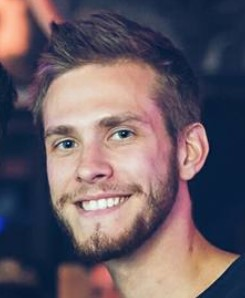
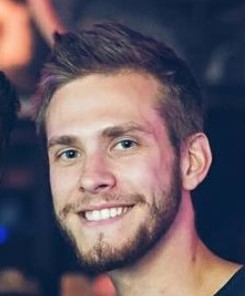
modified layout

diff --git a/index.html b/index.html
@@ -143,7 +143,7 @@
                     <!---------------------------------------- CAROUSEL ---------------------------------------->
 
                     <div class="row">
-                        <div class="col-md-8 m-auto">
+                        <div class="col-md-6 m-auto">
                             <div id="myCarousel" class="carousel slide" data-ride="carousel">
                                 <ol class="carousel-indicators">
                                     <li data-target="#myCarousel" data-slide-to="0" class="active"></li>
@@ -155,29 +155,34 @@
                                     <div class="item carousel-item active">
                                         <div class="img-box">
                                             <img src="static/customers/customer-1.jpg" alt="image">
-                                            <p class="testimonial">
-                                                Max pays great attention to details, very focused and fun to work with. <br>
-                                                He made me a set of professional photos for Linkedin, as well as for Tinder. <br>
-                                                Definitely choosing him as my wedding photographer!
-                                            </p>
-                                            <p class="customer"><strong>Anatoly Makeyev</strong></p>
                                         </div>
+                                        <p class="testimonial">
+                                            Max pays great attention to details, very focused and fun to work with.
+                                            He made me a set of professional photos for Linkedin, as well as for Tinder
+                                        </p>
+                                        <p class="customer"><strong>Anatoly Makeyev</strong></p>
                                     </div>
                                 <!--------------------------------------------------------------------------------------------->
                                     <div class="item carousel-item">
                                         <div class="img-box">
                                             <img src="static/images/img-4.jpg" alt="image">
-                                            <p class="testimonial">Lorem ipsum dolor sit amet.Lorem ipsum dolor sit amet.</p>
-                                            <p class="customer"><strong>Estebon Villalon</strong></p>
                                         </div>
+                                        <p class="testimonial">
+                                            Lorem ipsum dolor sit amet.Lorem ipsum dolor sit amet.
+                                            Lorem ipsum dolor sit amet.Lorem ipsum dolor sit amet.
+                                        </p>
+                                        <p class="customer"><strong>Estebon Villalon</strong></p>
                                     </div>
                                 <!--------------------------------------------------------------------------------------------->
                                     <div class="item carousel-item">
                                         <div class="img-box">
                                             <img src="static/images/img-4.jpg" alt="image">
-                                            <p class="testimonial">Lorem ipsum dolor sit amet.Lorem ipsum dolor sit amet.</p>
-                                            <p class="customer"><strong>Estebon Villalon</strong></p>
                                         </div>
+                                        <p class="testimonial">
+                                            Lorem ipsum dolor sit amet.Lorem ipsum dolor sit amet.
+                                            Lorem ipsum dolor sit amet.Lorem ipsum dolor sit amet. 
+                                        </p>
+                                        <p class="customer"><strong>Estebon Villalon</strong></p>
                                     </div>
                                 <!--------------------------------------------------------------------------------------------->
 
@@ -210,18 +215,28 @@
                             <small class="d-block mt-2 text-muted">&COPY; 2020</small>
                         </div>
 
-                        <div class="col-12 col-md-5 col-lg-4 mb-5 mb-md-0">
+                        <div class="col-12 col-md-3 col-lg-3 mb-3 mb-md-0">
                             <h5 class="text-uppercase">Follow Me</h5>
                             <ul class="list-unstyled text-small mb-0">
                                 <li>
-                                    <a href="#" class="text-muted">Instagram</a>
-                                    <a href="#" class="text-muted">Facebook</a>
-                                    <a href="#" class="text-muted">Email</a>
+                                    <a href="https://www.instagram.com/maxdshot/" class="text-muted"><i class="fab fa-instagram"></i></a>
+                                    <a href="https://tinyurl.com/vk36l6v" class="text-muted"><i class="fab fa-facebook-square"></i></a>
                                 </li>
                             </ul>
                         </div>
 
-                        <div class="col-12 col-md-5 col-lg-4">
+                        <div class="col-12 col-md-3 col-lg-3 mb-3 mb-md-0">
+                            <h5 class="text-uppercase">Get in Touch</h5>
+                            <ul class="list-unstyled text-small mb-0">
+                                <li>
+                                    <a href="mailto:max.dmitriev@gmail.com?subject=Hello!" class="text-muted"><i class="fas fa-envelope"></i></a>
+                                    <a href="tel:+972542451419" class="text-muted"><i class="fab fa-whatsapp"></i></a>
+                                </li>
+                            </ul>
+                        </div>
+
+                    <!--
+                        <div class="col-12 col-md-7 col-lg-4">
                             <h5 class="text-uppercase">Newsletter</h5>
                             <p class="text-muted">Subscribe to keep up with my work</p>
 
@@ -233,7 +248,9 @@
                                     </button>
                                 </div>
                             </div>
-                        </div>
+                        </div> 
+                    -->
+
                     </div>
                 </div>
             </footer>

diff --git a/styles.css b/styles.css
@@ -5,6 +5,8 @@
      src: url(/static/fonts/AmostelySignature.ttf);
 }
 
+*:focus { outline: none !important; }
+
 html {
      font-family: 'Roboto', sans-serif;
 }
@@ -18,7 +20,7 @@ a:hover {
      width: 100%;
      position: relative;
      vertical-align: middle;
-     border: 0.5px solid whitesmoke;
+     border: 3px solid whitesmoke;
 }
 
 header {
@@ -47,6 +49,7 @@ header {
      margin-bottom: 0;
      font-size: 25px;
      font-weight: 600;
+     color: #FFF;
 }
 
 .navbar {
@@ -138,7 +141,7 @@ header {
 .lightbox-content {
      position: relative;
      overflow: hidden;
-     border: 0.5px solid whitesmoke;
+     border: 3px solid whitesmoke;
 }
 
 .lightbox-content img {
@@ -192,4 +195,180 @@ header {
 
 .lightbox-content a:hover::after {
      opacity: 1;
+}
+
+.carousel .item {
+     color: #999;
+     font-size: 15px;
+     text-align: center;
+}
+
+.carousel .item .img-box {
+     width: 135px;
+     height: 135px;
+     margin: 0 auto;
+     padding: 5px;
+     border: 1px solid #384147;
+     border-radius: 100%;
+}
+
+.carousel .img-box img {
+     width: 100%;
+     height: 100%;
+     display: block;
+     border-radius: 100%;
+}
+
+.carousel .testimonial {
+     font-style: italic;
+     padding: 25px;
+     overflow: hidden;
+     white-space: pre-line;
+}
+
+.carousel .customer {
+     color: #384147;
+     font-weight: 300;
+     text-transform: uppercase;
+     margin-top: -30px;
+}
+
+/*
+.carousel .carousel-control {
+     top: 50%;
+     width: 50px;
+     height: 50px;
+     color: #384147;
+     transform: translateY(-50%);
+}
+*/
+
+.carousel-control {
+     color: #FFF;
+     font-size: 25px;     
+}
+
+.carousel-indicators {
+     bottom: -40px;
+}
+
+.carousel-indicators li,
+.carousel-indicators li.active {
+     width: 10px;
+     height: 10px;
+     background-color: #384147;
+     border-radius: 100%;
+}
+
+footer {
+     text-align: center;
+     background-color: #384147;
+}
+
+footer h5 {
+     color: #FFF;
+     font-family: 'Playfair Display SC', sans-serif;
+     margin-top: 15px;
+}
+
+.text-muted {
+     display: flex;
+     flex-direction: column;
+     justify-content: center;
+     margin-top: 15px;
+     color: rgba(277, 277, 277, 0.7) !important;
+}
+
+.text-muted i {
+     font-size: 30px;
+     margin-top: 10px;
+}
+
+.text-muted i.fa-instagram {
+     color: #DB5B66;
+     transition: color 0.5s;
+}
+
+.text-muted i.fa-instagram:hover {
+     color: #ED8D52;
+}
+
+.text-muted i.fa-facebook-square {
+     color: #3f79ec;
+     transition: color 0.5s;
+}
+
+.text-muted i.fa-facebook-square:hover {
+     color: #4c84f3;
+}
+
+.text-muted i.fa-whatsapp {
+     color: #2FD64B;
+     transition: color 0.5s;
+}
+
+.text-muted i.fa-whatsapp:hover {
+     color: #45f362;
+}
+
+.text-muted i.fa-envelope {
+     color: #e22525;
+     transition: color 0.5s;
+}
+
+.text-muted i.fa-envelope:hover {
+     color: #ff4444;
+}
+
+.input-group .btn {
+     color: #FFF;
+     background-color: #1F1F1F;
+     transition: opacity 0.7s;
+}
+
+.input-group .btn:hover {
+     opacity: 0.7;
+}
+
+
+@media screen and (min-width: 768px) {
+     .navbar {
+          background-color: transparent;
+     }
+
+     .navbar-nav {
+          margin: auto;
+          padding: 0;
+     }
+
+     .nav-link {
+          color: #384147;
+     }
+
+     .nav-link:hover {
+          color: inherit;
+     }
+
+     nav:hover .nav-link:not(:hover) {
+          opacity: 0.5;
+          transition: opacity 0.5s;
+     }
+     
+     .about-content {
+          position: relative;
+          display: block;
+     }
+
+     .about-description {
+          position: absolute;
+          top: 80%;
+          transform: translateY(-50%);
+          width: 60%;
+          outline-offset: -10px;
+     }
+
+     .about-img img {
+          width: 80%;
+          margin-left: auto;
+     }
 }
